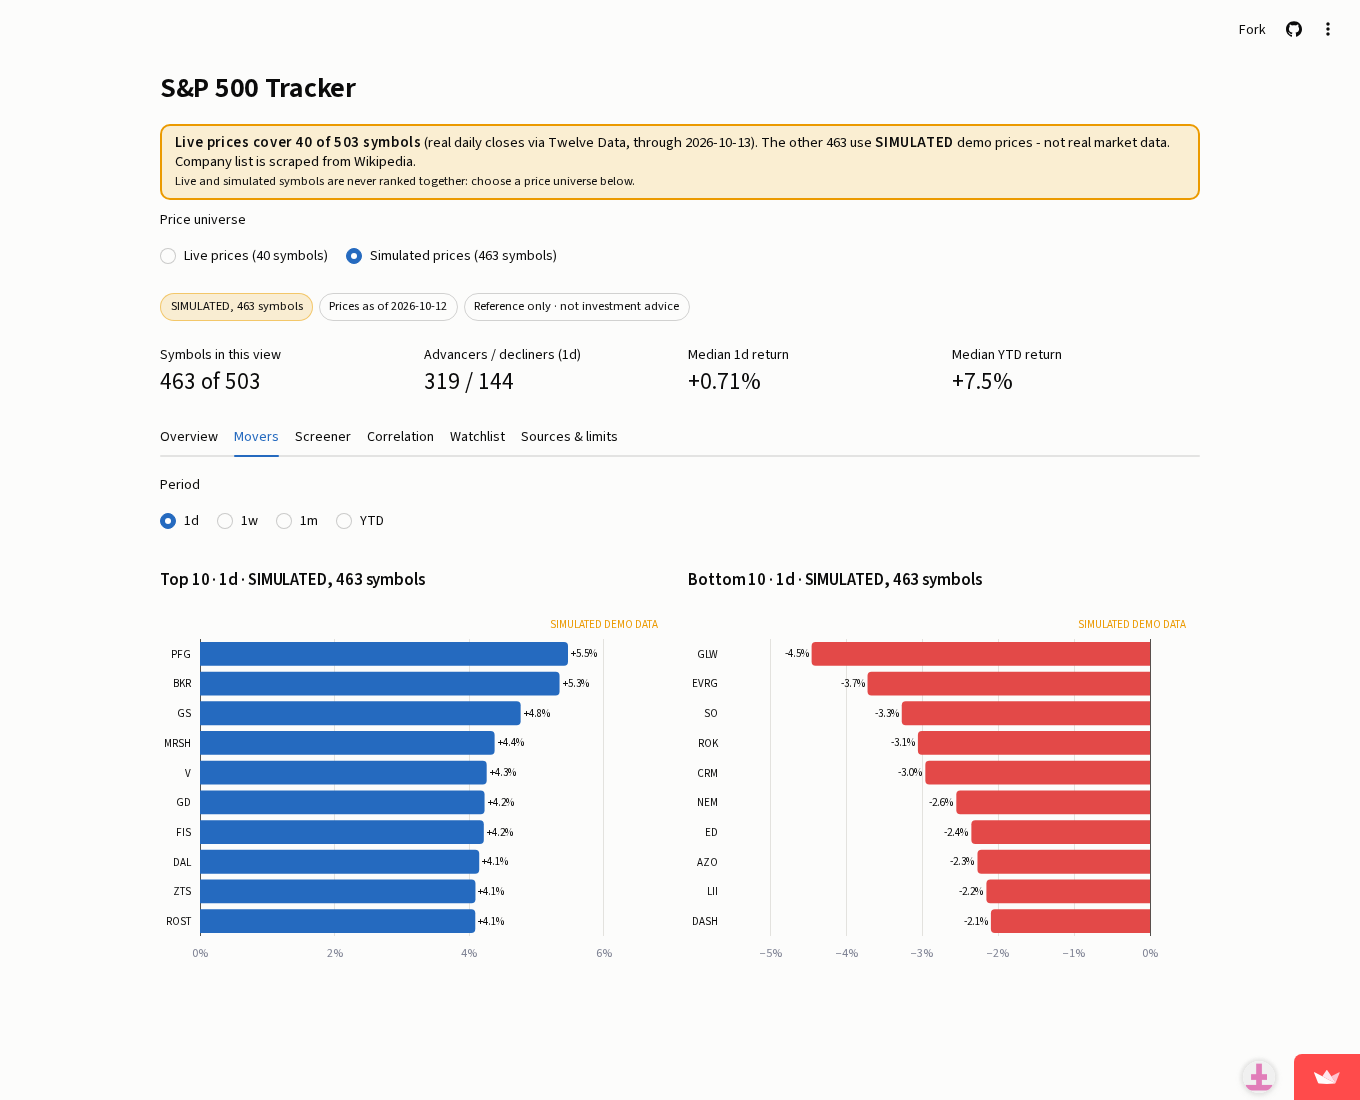
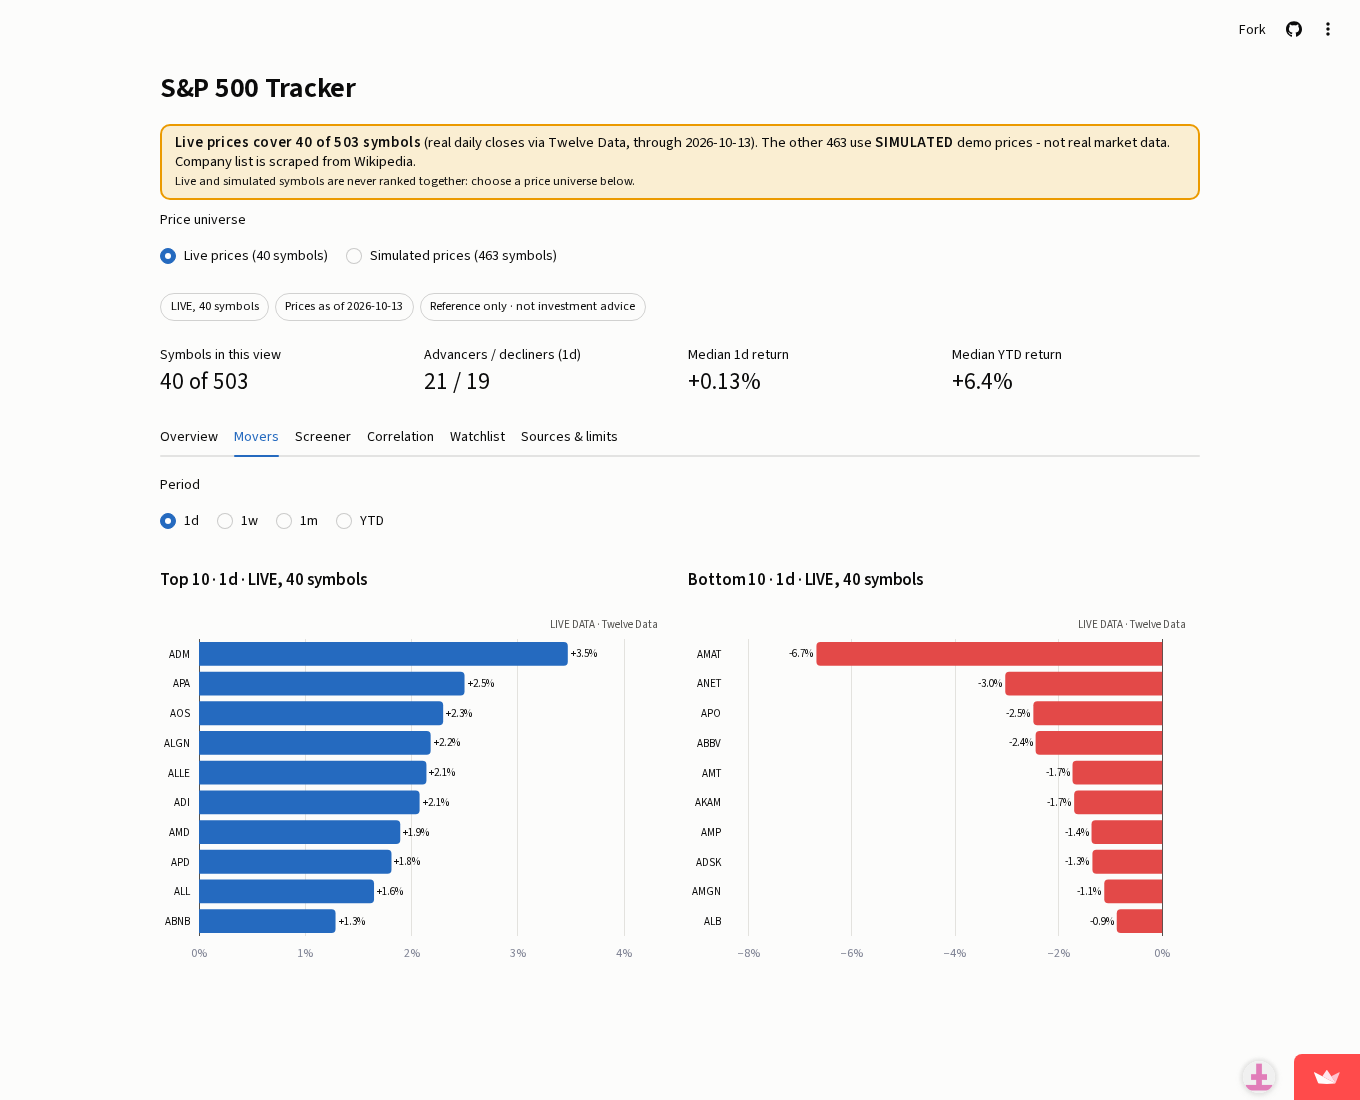
docs: live-universe screenshot and coverage note

diff --git a/README.md b/README.md
@@ -14,7 +14,11 @@ refreshes it.
 > (`scripts/make_snapshot.py`) attached to *real* company names, so e.g. a "+130% YTD" figure is not a real result.
 > The UI shows a persistent SIMULATED banner and badge. Not investment advice. No trading features.
 
-**Live demo:** https://alfredo-sp500-tracker.streamlit.app/ (SIMULATED prices; verified with a headless-browser click-through, see `docs/live-demo.png`)
+**Live demo:** https://alfredo-sp500-tracker.streamlit.app/ (live universe shown below: real Twelve Data closes for the symbols refreshed so far, the rest SIMULATED; verified with a headless-browser click-through)
+
+![live universe](docs/live-demo.png)
+
+> Live coverage grows ~40 symbols per scheduled run (8 runs per weekday, free-tier limits); full coverage in a few days.
 
 ## Architecture
 
